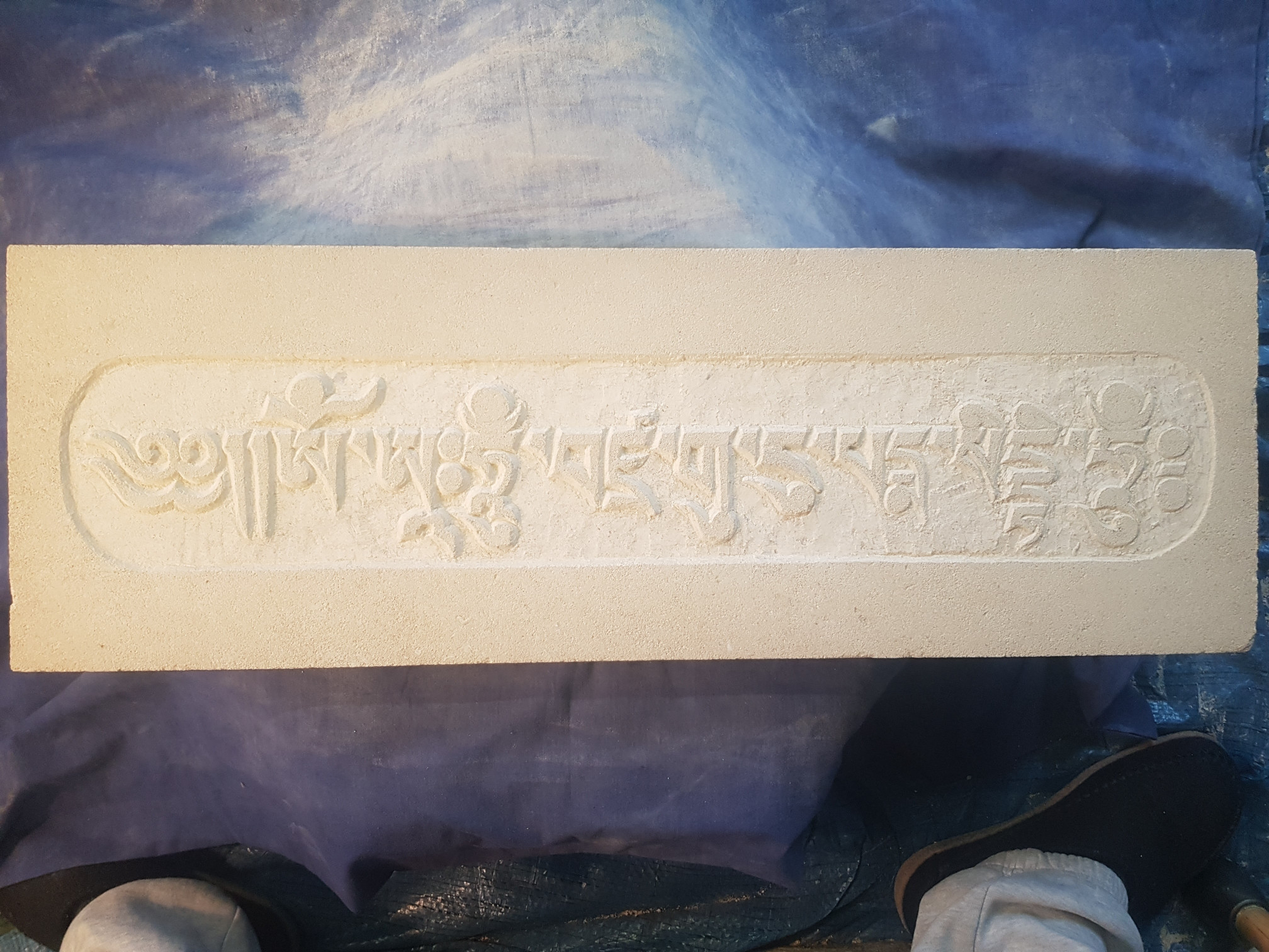
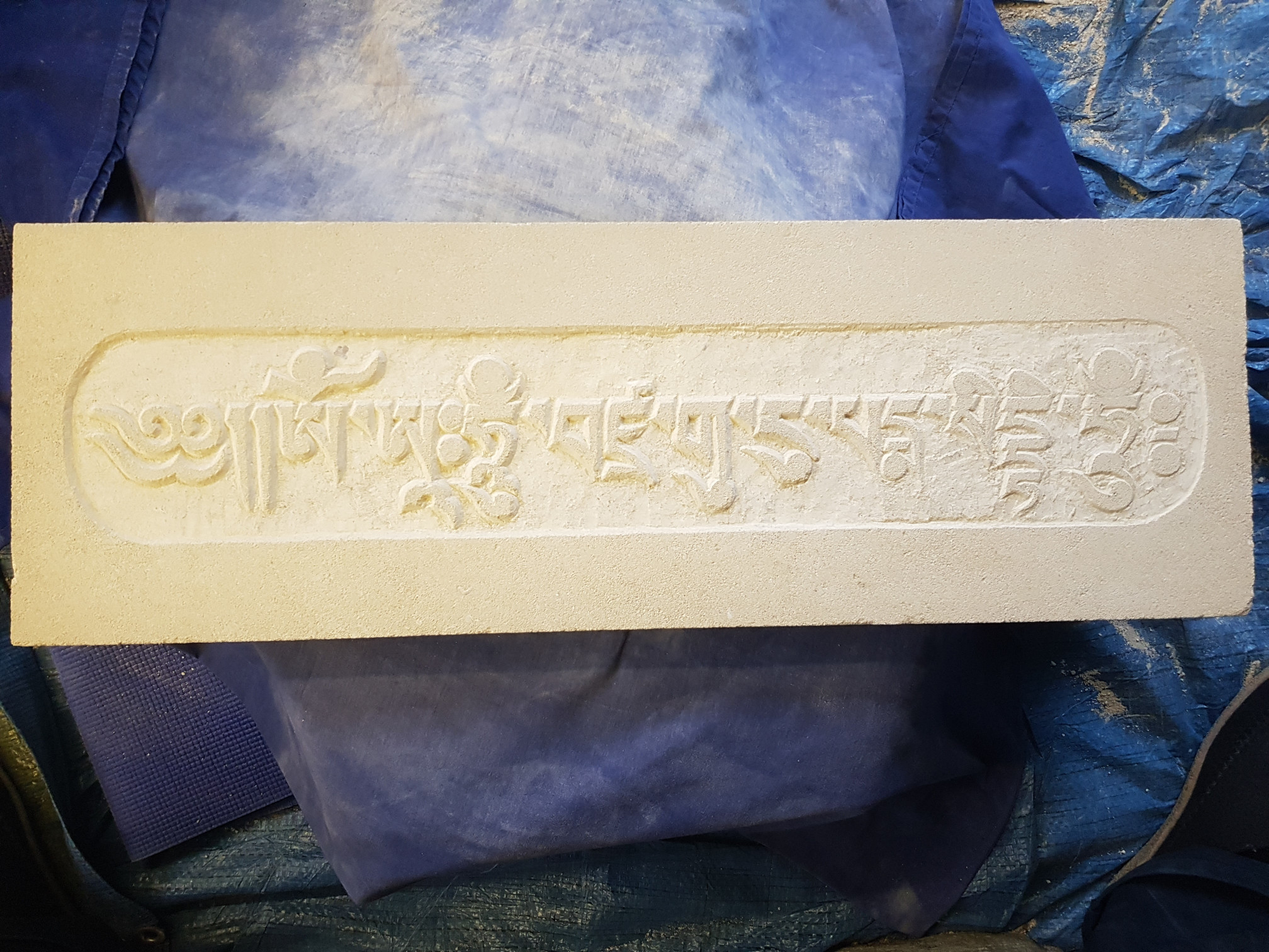
Redo the photo for session 11 and add session 12.

diff --git a/_posts/mantras/2022-01-24-ps.md b/_posts/mantras/2022-01-24-ps.md
@@ -1,0 +1,10 @@
+---
+title: "#sessions 12"
+layout: post
+category: mantra
+permalink: 2022-01-24-ps
+---
+
+![Padmasambhava12](/assets/images/mani/padmasambhava/ps12.jpg)  
+
+End of the second pass.
